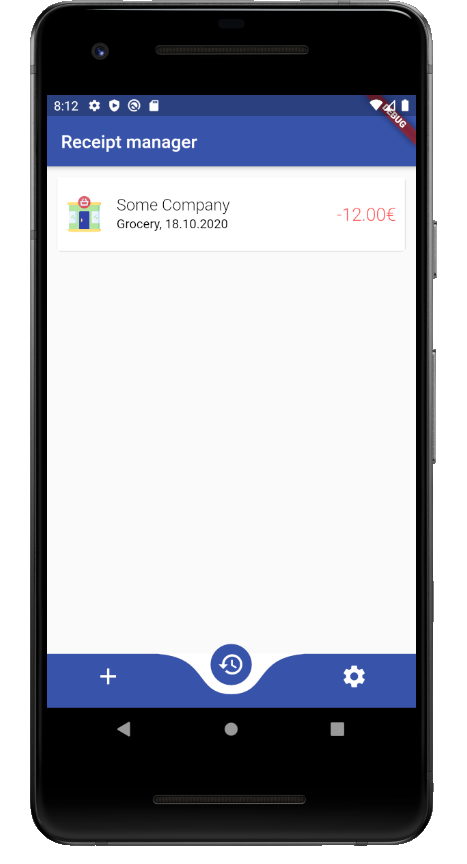
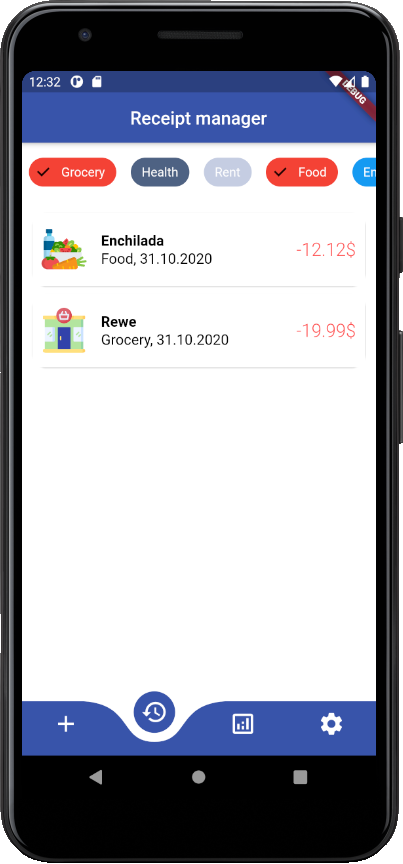
Update screenshots and add new receipt categories.

diff --git a/lib/factory/categories_factory.dart b/lib/factory/categories_factory.dart
@@ -36,7 +36,7 @@ class ReceiptCategoryFactory {
             Icon(Icons.medical_services, color: LightColor.black), "health"),
         ReceiptCategory(S.of(context).Rent, Icon(Icons.store_mall_directory,color: LightColor.black), "rent"),
         ReceiptCategory(
-           "Food", Icon(Icons.shop,color: LightColor.black), "entertainment"),
+           S.of(context).food, Icon(Icons.shop,color: LightColor.black), "food"),
         ReceiptCategory(
             S.of(context).entertainment, Icon(Icons.shop,color: LightColor.black), "entertainment"),
 

diff --git a/lib/factory/text_form_history.dart b/lib/factory/text_form_history.dart
@@ -17,7 +17,6 @@
 
 import 'package:flutter/cupertino.dart';
 import 'package:flutter/material.dart';
-import 'package:receipt_manager/converter/color_converter.dart';
 import 'package:receipt_manager/database/receipt_database.dart';
 import 'package:receipt_manager/factory/button_factory.dart';
 import 'package:receipt_manager/generated/l10n.dart';

diff --git a/README.md b/README.md
@@ -89,7 +89,7 @@ worry about that. No third party services are used.
 
 ### Screenshots
 <p align="left">
-  <img src="https://raw.githubusercontent.com/ReceiptParser/Application/master/docs/assets/dash_app.png">
+  <img src="https://raw.githubusercontent.com/ReceiptParser/Application/master/docs/assets/dashboard_app.png">
   
   <img src="https://raw.githubusercontent.com/ReceiptParser/Application/master/docs/assets/history_app.png">
   
@@ -98,6 +98,7 @@ worry about that. No third party services are used.
   <img src="https://raw.githubusercontent.com/ReceiptParser/Application/master/docs/assets/settings_app.png">
   
   <img src="https://raw.githubusercontent.com/ReceiptParser/Application/master/docs/assets/screen_app.png">
+
 </p>
 
 ---
